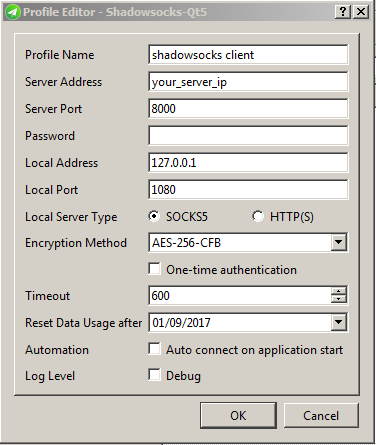
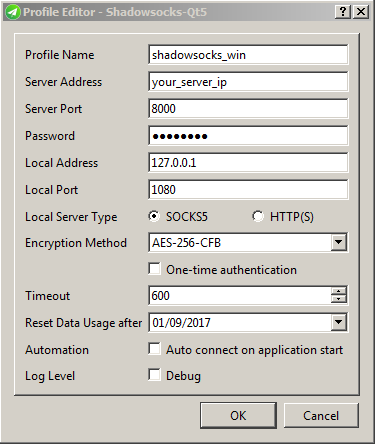
win client

diff --git a/install-shadowsoks-proxy-server-and-client.md b/install-shadowsoks-proxy-server-and-client.md
@@ -146,6 +146,10 @@ Before we start Shahdowsocks on your Linode, let’s create a new file and put t
 
 ![Windows client configuration](https://github.com/nastavnjc/shadowsocks-doc/blob/master/win-client-shadowsocks.png "Windows client configuration")
 
+{: .note}
+>
+> Be sure to replace `your_server_ip`, port `8000` and `p4ssw0rD` with the values you specified in the **Server configuration** section.
+
 ## Configuring Firefox to Use Shadowsocks
 
 1.	Open your firefox web browser on the system where you have installed the Shadowsocks client.
